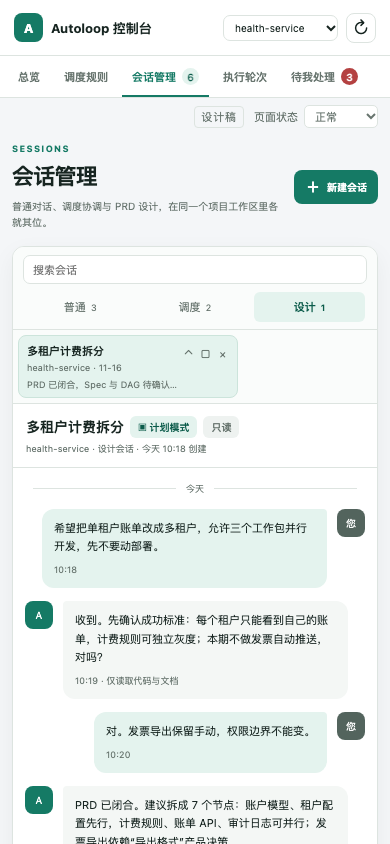
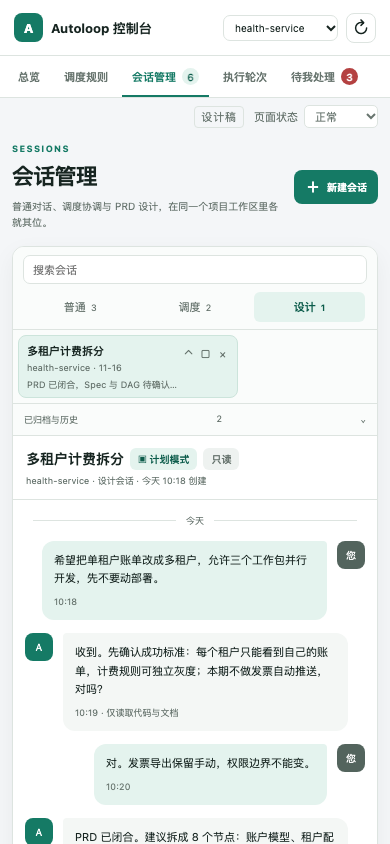
docs(design): R3 复审返工——节点数据源统一、逐节点分段环形图、归档可恢复
- P1: 总览/DAG 详情/授权页统一为 8 节点单一数据源（dagRunNodes），计数与 aria 由数据生成
- P1: 环形图逐节点独立分段（DAG 8 段、串行 11 段），相邻同色不合并，阻塞琥珀色保留
- P1: 归档真实加入“已归档与历史”列表，支持只读查看与恢复，计数联动；移动端不再隐藏归档入口
- P2: render.mjs 改为 createRequire(import.meta.url)，去除本机绝对路径
- P2: README 状态统一为已确认基线，断言规模如实更新
- P2: 断言 52→105，覆盖三类会话创建契约、Plan Mode、逐节点分段、归档恢复与 Codex App 布局一致性

验证：node render.mjs → 14 PNG、105 断言、0 浏览器错误；npm test 167/167 绿

Changed region(s): [[0.0615, 0.4929, 0.9538, 1.0], [0.0615, 0.9242, 0.1538, 1.0]]

diff --git a/docs/design/2026-11-16-parallel-dag/prototype.css b/docs/design/2026-11-16-parallel-dag/prototype.css
@@ -3,9 +3,9 @@
 @media(max-width:600px){.topbar{height:56px;padding:0 14px}.brand{font-size:13px;gap:8px}.brand-mark{width:29px;height:29px;border-radius:8px}.project-picker>span,.connection{display:none}.project-picker select{max-width:115px;font-size:10px;padding:5px 7px}.header-actions{gap:8px}.icon-button{width:30px;height:30px}.navigation{padding:0 8px}.nav-item{font-size:11px;padding:12px 10px 10px}.prototype-tools{padding:7px 12px 0}main{padding:15px 12px 36px}.page-heading{align-items:flex-start;gap:12px;margin-bottom:16px}.page-heading .button.primary{padding:8px 10px;font-size:10px;min-height:34px}h1{font-size:22px}.eyebrow{font-size:9px}.subtle{font-size:10px}.summary-grid{grid-template-columns:repeat(2,1fr);gap:9px}.metric{padding:12px 13px}.metric strong{font-size:23px}.metric small{font-size:9px}.dag-summary{grid-template-columns:1fr;padding:15px;gap:15px}.lane-meter{border-left:0;border-top:1px solid var(--line);padding:12px 0 0;display:grid;grid-template-columns:1fr auto;align-items:center}.lane-meter p{grid-column:1;margin:0}.lane-dots{grid-column:2;grid-row:1/3}.node-strip{padding:0 15px 14px}.node-chip{min-width:114px}.capacity-note{padding:9px 15px;font-size:9px}.legacy-row{grid-template-columns:1fr 70px 32px;gap:8px;padding:13px 15px}.panel-heading{padding:13px 15px}.title-with-badge{gap:6px}.compact-heading{flex-direction:column}.heading-actions{width:100%}.heading-actions .button{flex:1}.stepper li{font-size:9px;gap:4px}.stepper li:after{margin:0 5px}.stepper li:before{width:19px;height:19px;font-size:9px}.design-layout{gap:12px}.conversation-panel{min-height:500px}.messages{padding:14px 12px;gap:13px}.message{max-width:95%;font-size:11px}.composer-footer>span{max-width:210px}.design-sidebar,.dag-sidebar,.preflight-sidebar{display:flex}.run-metrics{grid-template-columns:repeat(3,1fr);gap:7px}.run-metrics>div{padding:10px}.run-metrics strong{font-size:18px}.run-metrics>div:nth-child(4),.run-metrics>div:nth-child(5){grid-column:auto}.wave{grid-template-columns:1fr;padding:13px 12px}.wave-label{display:flex;gap:8px;align-items:center}.wave-label small{margin-top:0}.wave-nodes{grid-template-columns:1fr 1fr}.dag-node{padding:8px}.preflight-row{padding:12px 13px;grid-template-columns:22px 1fr}.preflight-row>.status{grid-column:2;justify-self:start}.confirmation-summary{padding:14px;gap:14px}.permission-grid{grid-template-columns:1fr}.authorization-section{padding:14px}.confirm-card{position:static}.toast{left:12px;right:12px;bottom:12px;max-width:none}}
 /* R2：项目进度融合 + 会话管理 */
 .project-progress{padding:18px 20px;border-bottom:1px solid var(--line)}.project-progress:last-child{border-bottom:0}.project-heading-row{display:flex;align-items:flex-start;justify-content:space-between;gap:14px;margin-bottom:15px}.project-heading-row h3{font-size:14px}.project-heading-row p{color:var(--muted);font-size:10px;margin:4px 0 0}.dag-visual{display:grid;grid-template-columns:210px 1fr;gap:22px;align-items:center}.donut-wrap{display:flex;align-items:center;gap:16px}.dag-donut{width:116px;height:116px;border-radius:50%;display:grid;place-items:center;flex:none;background:conic-gradient(#157a65 0 14.285%,#157a65 14.285% 28.57%,#4f8fb9 28.57% 42.855%,#8ab2ce 42.855% 57.14%,#d59a37 57.14% 71.425%,#d8d2e7 71.425% 100%);transform:rotate(-90deg)}.dag-donut:before{content:"";position:absolute;width:82px;height:82px;border-radius:50%;background:#fff}.dag-donut>div{position:relative;text-align:center;transform:rotate(90deg)}.dag-donut strong{display:block;font-size:22px;letter-spacing:-.04em}.dag-donut span{display:block;color:var(--muted);font-size:9px;margin-top:1px}.donut-legend{display:flex;flex-direction:column;gap:6px}.donut-legend>span{font-size:10px;color:var(--muted)}.donut-legend i{display:inline-block;width:8px;height:8px;border-radius:2px;margin-right:6px}.donut-legend i.wave-1{background:#157a65}.donut-legend i.wave-2{background:#4f8fb9}.donut-legend i.wave-3{background:#d8d2e7}.donut-legend small{font-size:8px;color:var(--muted);margin-top:3px;white-space:nowrap}.progress-waves{display:flex;flex-direction:column;gap:10px}.progress-wave{display:grid;grid-template-columns:110px 1fr;gap:8px;align-items:start}.progress-wave-label span{display:block;font-size:10px;font-weight:650}.progress-wave-label small{display:block;color:var(--muted);font-size:9px;margin-top:3px}.progress-wave>div:last-child{display:flex;gap:7px;flex-wrap:wrap}.progress-node{border:1px solid var(--line);border-radius:7px;padding:7px 9px;background:#fff;text-align:left;font-size:10px;color:var(--ink);min-width:128px}.progress-node small{display:block;color:var(--muted);font-size:8px;margin-top:3px}.progress-node.w1{border-top:3px solid #157a65}.progress-node.w2{border-top:3px solid #4f8fb9}.progress-node.w3{border-top:3px solid #d8d2e7}.progress-node.done{background:#e4f3ee}.progress-node.active{background:#e3eef5}.progress-node.review{background:#f0f5f9}.progress-node.blocked{background:#fff3df;border-top-color:#d59a37}.progress-node.pending{background:#faf9fc;color:#7c768a}.serial-project{padding-top:14px;padding-bottom:14px}.serial-project .project-heading-row{margin-bottom:10px}.serial-project .legacy-progress{width:100%}
-.session-page-heading{margin-bottom:16px}.session-layout{display:grid;grid-template-columns:292px minmax(0,1fr);min-height:660px}.session-sidebar{border-right:1px solid var(--line);display:flex;flex-direction:column;min-width:0;background:#fafcfb}.session-search{padding:12px 12px 9px}.session-search input{width:100%;border:1px solid var(--line);border-radius:7px;background:#fff;padding:7px 9px;font-size:11px;color:var(--ink)}.session-kind-tabs{display:grid;grid-template-columns:repeat(3,1fr);gap:4px;padding:0 12px 10px;border-bottom:1px solid var(--line)}.session-kind-tabs button{border:0;border-radius:6px;background:transparent;color:var(--muted);padding:7px 4px;font-size:11px}.session-kind-tabs button.active{background:var(--accent-soft);color:var(--accent-dark);font-weight:650}.session-kind-tabs span{font-size:9px;margin-left:2px}.session-list{padding:6px;overflow:auto;flex:1}.session-item{position:relative;border:1px solid transparent;border-radius:8px;margin-bottom:3px;padding:7px 6px 6px 8px;display:flex;align-items:flex-start;gap:3px}.session-item[hidden]{display:none}.session-item:hover{background:#f0f4f2}.session-item.active{background:var(--accent-soft);border-color:#cce4db}.session-item-main{min-width:0;flex:1}.session-select{display:block;width:100%;text-align:left;border:0;background:transparent;padding:0;color:var(--ink);min-width:0}.session-select strong{display:block;font-size:11px;line-height:1.45;overflow:hidden;text-overflow:ellipsis;white-space:nowrap}.session-select>span{display:block;color:var(--muted);font-size:9px;margin-top:3px}.session-select small{display:block;color:var(--muted);font-size:9px;line-height:1.45;margin-top:5px}.session-item.collapsed .session-select small{display:none}.session-item-actions{display:flex;gap:0;opacity:0;transition:opacity .12s}.session-item:hover .session-item-actions,.session-item.active .session-item-actions{opacity:1}.session-item-actions button{border:0;background:transparent;color:var(--muted);width:17px;height:20px;padding:0;font-size:11px}.session-item-actions button:hover{color:var(--accent)}.archived-sessions{border-top:1px solid var(--line);padding:8px 10px}.archived-sessions>button{display:flex;width:100%;justify-content:space-between;border:0;background:transparent;color:var(--muted);font-size:10px;padding:4px}.archived-item{display:flex;justify-content:space-between;width:100%;border:0;background:transparent;padding:7px 4px;color:var(--muted);font-size:10px}.archived-item span{color:var(--accent)}.session-workspace{display:flex;flex-direction:column;min-width:0;background:#fff}.session-header{display:flex;justify-content:space-between;align-items:center;gap:12px;padding:14px 18px;border-bottom:1px solid var(--line)}.session-header h2{font-size:14px}.session-header p{color:var(--muted);font-size:9px;margin:4px 0 0}.session-header-actions{display:flex;gap:5px}.session-header-actions .icon-button{border:0;background:#f5f7f6}.session-transcript{flex:1;overflow:auto;min-height:360px}.session-date-divider{display:flex;align-items:center;gap:10px;padding:14px 20px 2px;color:var(--muted);font-size:9px}.session-date-divider:before,.session-date-divider:after{content:"";height:1px;background:var(--line);flex:1}.session-transcript .messages{padding-top:12px;padding-bottom:14px}.session-bottom{border-top:1px solid var(--line);padding:10px 16px 9px;background:#fff}.design-session-progress{display:flex;align-items:center;gap:7px;margin-bottom:8px}.design-session-progress>span{padding:3px 7px;border-radius:5px;background:var(--accent-soft);color:var(--accent-dark);font-size:9px}.design-session-progress .text-button{margin-left:auto;font-size:10px}.codex-composer{border:1px solid #ccd8d2;border-radius:11px;box-shadow:0 3px 12px rgba(22,42,34,.06);overflow:hidden}.codex-composer textarea{display:block;width:100%;height:58px;resize:none;border:0;padding:12px 13px;color:var(--ink);font-size:11px;outline:none}.codex-composer-footer{display:flex;justify-content:space-between;align-items:center;padding:6px 8px 7px;color:var(--muted);font-size:9px}.codex-composer-footer>div{display:flex;align-items:center;gap:6px}.composer-tool{border:0;background:transparent;color:var(--muted);font-size:17px;width:25px;height:25px}.composer-separator{color:#b8c2bd}.composer-send{border:0;border-radius:7px;background:var(--accent);color:#fff;width:29px;height:29px;font-size:15px}.session-footnote{text-align:center;color:var(--muted);font-size:8px;margin:7px 0 0}.new-session-dialog{border:1px solid var(--line);border-radius:14px;padding:0;width:min(590px,calc(100vw - 28px));box-shadow:0 24px 70px rgba(22,42,34,.2);color:var(--ink)}.new-session-dialog::backdrop,.delete-session-dialog::backdrop{background:rgba(17,33,27,.35);backdrop-filter:blur(2px)}.dialog-heading{display:flex;justify-content:space-between;align-items:flex-start;padding:20px 22px 13px;border-bottom:1px solid var(--line)}.dialog-heading h2{font-size:18px}.dialog-heading .subtle{font-size:10px;margin-top:6px}.form-field{display:flex;flex-direction:column;gap:6px;margin:14px 22px;color:var(--muted);font-size:10px}.form-field select,.form-field textarea{border:1px solid var(--line);border-radius:8px;padding:10px;color:var(--ink);background:#fff;font-size:12px}.form-field textarea{height:88px;resize:none}.session-classification{margin:14px 22px;padding:13px;background:#f5f8f6;border:1px solid var(--line);border-radius:9px}.classification-top{display:flex;justify-content:space-between;color:var(--muted);font-size:9px}.classification-result{display:flex;gap:10px;align-items:flex-start;margin:12px 0}.classification-result>span{display:grid;place-items:center;width:28px;height:28px;border-radius:8px;background:#fff;color:var(--accent);font-size:16px}.classification-result strong{font-size:12px}.classification-result p{color:var(--muted);font-size:10px;line-height:1.5;margin:3px 0 0}.classification-override{display:grid;grid-template-columns:repeat(4,1fr);gap:4px}.classification-override button{border:1px solid var(--line);background:#fff;border-radius:6px;padding:6px;color:var(--muted);font-size:10px}.classification-override button.active{background:var(--accent-soft);border-color:#afd4c6;color:var(--accent-dark);font-weight:650}.classification-contract{margin:0 22px 14px;padding:9px 11px;background:var(--accent-soft);border-radius:7px;color:var(--accent-dark);font-size:10px;line-height:1.55}.dialog-actions{display:flex;justify-content:flex-end;gap:8px;padding:13px 22px;border-top:1px solid var(--line)}.delete-session-dialog{border:1px solid var(--line);border-radius:12px;width:min(390px,calc(100vw - 28px));padding:20px;color:var(--ink)}.delete-session-dialog h2{font-size:17px}.delete-session-dialog p{color:var(--muted);font-size:11px;line-height:1.6}.delete-session-dialog .dialog-actions{padding:12px 0 0;border:0}
+.session-page-heading{margin-bottom:16px}.session-layout{display:grid;grid-template-columns:292px minmax(0,1fr);min-height:660px}.session-sidebar{border-right:1px solid var(--line);display:flex;flex-direction:column;min-width:0;background:#fafcfb}.session-search{padding:12px 12px 9px}.session-search input{width:100%;border:1px solid var(--line);border-radius:7px;background:#fff;padding:7px 9px;font-size:11px;color:var(--ink)}.session-kind-tabs{display:grid;grid-template-columns:repeat(3,1fr);gap:4px;padding:0 12px 10px;border-bottom:1px solid var(--line)}.session-kind-tabs button{border:0;border-radius:6px;background:transparent;color:var(--muted);padding:7px 4px;font-size:11px}.session-kind-tabs button.active{background:var(--accent-soft);color:var(--accent-dark);font-weight:650}.session-kind-tabs span{font-size:9px;margin-left:2px}.session-list{padding:6px;overflow:auto;flex:1}.session-item{position:relative;border:1px solid transparent;border-radius:8px;margin-bottom:3px;padding:7px 6px 6px 8px;display:flex;align-items:flex-start;gap:3px}.session-item[hidden]{display:none}.session-item:hover{background:#f0f4f2}.session-item.active{background:var(--accent-soft);border-color:#cce4db}.session-item-main{min-width:0;flex:1}.session-select{display:block;width:100%;text-align:left;border:0;background:transparent;padding:0;color:var(--ink);min-width:0}.session-select strong{display:block;font-size:11px;line-height:1.45;overflow:hidden;text-overflow:ellipsis;white-space:nowrap}.session-select>span{display:block;color:var(--muted);font-size:9px;margin-top:3px}.session-select small{display:block;color:var(--muted);font-size:9px;line-height:1.45;margin-top:5px}.session-item.collapsed .session-select small{display:none}.session-item-actions{display:flex;gap:0;opacity:0;transition:opacity .12s}.session-item:hover .session-item-actions,.session-item.active .session-item-actions{opacity:1}.session-item-actions button{border:0;background:transparent;color:var(--muted);width:17px;height:20px;padding:0;font-size:11px}.session-item-actions button:hover{color:var(--accent)}.archived-sessions{border-top:1px solid var(--line);padding:8px 10px}.archived-sessions>button{display:flex;width:100%;justify-content:space-between;border:0;background:transparent;color:var(--muted);font-size:10px;padding:4px}.archived-entry{display:flex;justify-content:space-between;align-items:center;gap:8px;width:100%;border:0;background:transparent;padding:7px 4px;color:var(--muted);font-size:10px}.archived-entry-title{overflow:hidden;text-overflow:ellipsis;white-space:nowrap}.archived-entry-actions{display:flex;gap:4px;flex:none}.archived-entry-actions button{border:1px solid var(--line);border-radius:5px;background:#fff;padding:2px 7px;font-size:9px;color:var(--accent-dark)}.archived-entry-actions button:hover{border-color:var(--accent)}.archived-item span{color:var(--accent)}.session-workspace{display:flex;flex-direction:column;min-width:0;background:#fff}.session-header{display:flex;justify-content:space-between;align-items:center;gap:12px;padding:14px 18px;border-bottom:1px solid var(--line)}.session-header h2{font-size:14px}.session-header p{color:var(--muted);font-size:9px;margin:4px 0 0}.session-header-actions{display:flex;gap:5px}.session-header-actions .icon-button{border:0;background:#f5f7f6}.session-transcript{flex:1;overflow:auto;min-height:360px}.session-date-divider{display:flex;align-items:center;gap:10px;padding:14px 20px 2px;color:var(--muted);font-size:9px}.session-date-divider:before,.session-date-divider:after{content:"";height:1px;background:var(--line);flex:1}.session-transcript .messages{padding-top:12px;padding-bottom:14px}.session-bottom{border-top:1px solid var(--line);padding:10px 16px 9px;background:#fff}.design-session-progress{display:flex;align-items:center;gap:7px;margin-bottom:8px}.design-session-progress>span{padding:3px 7px;border-radius:5px;background:var(--accent-soft);color:var(--accent-dark);font-size:9px}.design-session-progress .text-button{margin-left:auto;font-size:10px}.codex-composer{border:1px solid #ccd8d2;border-radius:11px;box-shadow:0 3px 12px rgba(22,42,34,.06);overflow:hidden}.codex-composer textarea{display:block;width:100%;height:58px;resize:none;border:0;padding:12px 13px;color:var(--ink);font-size:11px;outline:none}.codex-composer-footer{display:flex;justify-content:space-between;align-items:center;padding:6px 8px 7px;color:var(--muted);font-size:9px}.codex-composer-footer>div{display:flex;align-items:center;gap:6px}.composer-tool{border:0;background:transparent;color:var(--muted);font-size:17px;width:25px;height:25px}.composer-separator{color:#b8c2bd}.composer-send{border:0;border-radius:7px;background:var(--accent);color:#fff;width:29px;height:29px;font-size:15px}.session-footnote{text-align:center;color:var(--muted);font-size:8px;margin:7px 0 0}.new-session-dialog{border:1px solid var(--line);border-radius:14px;padding:0;width:min(590px,calc(100vw - 28px));box-shadow:0 24px 70px rgba(22,42,34,.2);color:var(--ink)}.new-session-dialog::backdrop,.delete-session-dialog::backdrop{background:rgba(17,33,27,.35);backdrop-filter:blur(2px)}.dialog-heading{display:flex;justify-content:space-between;align-items:flex-start;padding:20px 22px 13px;border-bottom:1px solid var(--line)}.dialog-heading h2{font-size:18px}.dialog-heading .subtle{font-size:10px;margin-top:6px}.form-field{display:flex;flex-direction:column;gap:6px;margin:14px 22px;color:var(--muted);font-size:10px}.form-field select,.form-field textarea{border:1px solid var(--line);border-radius:8px;padding:10px;color:var(--ink);background:#fff;font-size:12px}.form-field textarea{height:88px;resize:none}.session-classification{margin:14px 22px;padding:13px;background:#f5f8f6;border:1px solid var(--line);border-radius:9px}.classification-top{display:flex;justify-content:space-between;color:var(--muted);font-size:9px}.classification-result{display:flex;gap:10px;align-items:flex-start;margin:12px 0}.classification-result>span{display:grid;place-items:center;width:28px;height:28px;border-radius:8px;background:#fff;color:var(--accent);font-size:16px}.classification-result strong{font-size:12px}.classification-result p{color:var(--muted);font-size:10px;line-height:1.5;margin:3px 0 0}.classification-override{display:grid;grid-template-columns:repeat(4,1fr);gap:4px}.classification-override button{border:1px solid var(--line);background:#fff;border-radius:6px;padding:6px;color:var(--muted);font-size:10px}.classification-override button.active{background:var(--accent-soft);border-color:#afd4c6;color:var(--accent-dark);font-weight:650}.classification-contract{margin:0 22px 14px;padding:9px 11px;background:var(--accent-soft);border-radius:7px;color:var(--accent-dark);font-size:10px;line-height:1.55}.dialog-actions{display:flex;justify-content:flex-end;gap:8px;padding:13px 22px;border-top:1px solid var(--line)}.delete-session-dialog{border:1px solid var(--line);border-radius:12px;width:min(390px,calc(100vw - 28px));padding:20px;color:var(--ink)}.delete-session-dialog h2{font-size:17px}.delete-session-dialog p{color:var(--muted);font-size:11px;line-height:1.6}.delete-session-dialog .dialog-actions{padding:12px 0 0;border:0}
 @media(max-width:900px){.dag-visual{grid-template-columns:180px 1fr}.session-layout{grid-template-columns:240px minmax(0,1fr)}}
-@media(max-width:600px){.project-progress{padding:14px 13px}.project-heading-row{gap:8px}.dag-visual{grid-template-columns:1fr}.donut-wrap{justify-content:center}.donut-legend{display:grid;grid-template-columns:repeat(3,1fr);gap:5px}.donut-legend small{grid-column:1/-1;text-align:center}.progress-wave{grid-template-columns:1fr}.progress-wave-label{display:flex;gap:7px;align-items:center}.progress-wave-label small{margin-top:0}.progress-node{min-width:110px;flex:1}.session-page-heading{flex-direction:row;align-items:center}.session-layout{grid-template-columns:1fr;min-height:600px}.session-sidebar{border-right:0;border-bottom:1px solid var(--line);max-height:265px}.session-search{padding:8px 10px}.session-kind-tabs{padding-bottom:7px}.session-list{display:flex;gap:5px;padding:5px;overflow-x:auto}.session-item{min-width:205px;margin-bottom:0}.session-item-actions{opacity:1}.archived-sessions{display:none}.session-header{padding:12px 13px}.session-header-actions{display:none}.session-transcript{min-height:350px}.session-bottom{padding:9px 10px}.session-footnote{font-size:7px}.new-session-dialog{max-height:calc(100vh - 30px);overflow:auto}.dialog-heading{padding:16px}.form-field{margin:12px 16px}.session-classification{margin:12px 16px}.classification-contract{margin:0 16px 12px}.dialog-actions{padding:12px 16px}}
+@media(max-width:600px){.project-progress{padding:14px 13px}.project-heading-row{gap:8px}.dag-visual{grid-template-columns:1fr}.donut-wrap{justify-content:center}.donut-legend{display:grid;grid-template-columns:repeat(3,1fr);gap:5px}.donut-legend small{grid-column:1/-1;text-align:center}.progress-wave{grid-template-columns:1fr}.progress-wave-label{display:flex;gap:7px;align-items:center}.progress-wave-label small{margin-top:0}.progress-node{min-width:110px;flex:1}.session-page-heading{flex-direction:row;align-items:center}.session-layout{grid-template-columns:1fr;min-height:600px}.session-sidebar{border-right:0;border-bottom:1px solid var(--line);max-height:265px}.session-search{padding:8px 10px}.session-kind-tabs{padding-bottom:7px}.session-list{display:flex;gap:5px;padding:5px;overflow-x:auto}.session-item{min-width:205px;margin-bottom:0}.session-item-actions{opacity:1}.archived-sessions{display:block;border-top:1px solid var(--line);padding:6px 8px}.archived-sessions>button{font-size:9px;padding:3px}.archived-entry{padding:5px 2px;font-size:9px}.session-header{padding:12px 13px}.session-header-actions{display:none}.session-transcript{min-height:350px}.session-bottom{padding:9px 10px}.session-footnote{font-size:7px}.new-session-dialog{max-height:calc(100vh - 30px);overflow:auto}.dialog-heading{padding:16px}.form-field{margin:12px 16px}.session-classification{margin:12px 16px}.classification-contract{margin:0 16px 12px}.dialog-actions{padding:12px 16px}}
 [hidden]{display:none!important}
 .history-note{color:var(--muted);font-size:8px;margin:4px 4px 7px}.history-runs{margin-top:16px}.history-runs>button{display:flex;align-items:center;gap:10px;width:100%;border:0;background:#fff;padding:13px 17px;color:var(--ink);text-align:left}.history-runs>button>span:first-child{font-size:12px;font-weight:650}.history-runs>button small{color:var(--muted);font-size:9px;flex:1}.history-runs>button>span:last-child{color:var(--muted)}#run-history-list{border-top:1px solid var(--line)}#run-history-list>button{display:grid;grid-template-columns:1fr auto auto;gap:14px;width:100%;border:0;border-bottom:1px solid var(--line);background:#fff;padding:11px 17px;text-align:left;font-size:10px;color:var(--ink)}#run-history-list>button:last-child{border-bottom:0}#run-history-list>button span{color:var(--muted)}
 .serial-donut{background:conic-gradient(#157a65 0 45.45%,#79b5a4 45.45% 54.54%,#e2ebe7 54.54% 100%)}.progress-node.w1.current{background:#d9eee6}.more-nodes{align-self:center;font-size:9px}

diff --git a/docs/design/2026-11-16-parallel-dag/prototype.html b/docs/design/2026-11-16-parallel-dag/prototype.html
@@ -46,11 +46,11 @@
           <span class="subtle">2 个项目</span>
         </div>
         <article class="project-progress dag-project">
-          <div class="project-heading-row"><div><div class="title-with-badge"><h3>health-service</h3><span class="status good">并行 DAG</span></div><p>多租户计费拆分 · 7 个节点 · 第 2/3 波</p></div><button class="text-button" data-screen="dag">查看运行详情 →</button></div>
+          <div class="project-heading-row"><div><div class="title-with-badge"><h3>health-service</h3><span class="status good">并行 DAG</span></div><p data-dag-node-summary>多租户计费拆分 · 8 个节点 · 第 2/3 波</p></div><button class="text-button" data-screen="dag">查看运行详情 →</button></div>
           <div class="project-usage"><div><span>今日费用</span><strong>$2.84</strong></div><div><span>累计费用</span><strong>$18.62</strong></div><div><span>今日 Token</span><strong>182K</strong><small>入 131K / 出 51K</small></div><div><span>累计 Token</span><strong>1.24M</strong><small>入 886K / 出 354K</small></div></div>
           <div class="dag-visual">
             <div class="donut-wrap">
-              <div class="dag-donut" role="img" aria-label="DAG 总进度 29%，7 个节点"><div><strong>29%</strong><span>总进度</span></div></div>
+              <div class="dag-donut" role="img" aria-label="DAG 总进度 25%，8 个节点，逐节点分段"><div><strong>25%</strong><span>总进度</span></div></div>
               <div class="donut-legend"><span><i class="wave-1"></i>第 1 波</span><span><i class="wave-2"></i>第 2 波</span><span><i class="wave-3"></i>第 3 波</span><small>颜色 = 波次 · 深浅 = 状态</small></div>
             </div>
             <div class="progress-waves">
@@ -116,8 +116,16 @@
               <div class="session-item-main"><button class="session-select" data-session="design-tenant"><strong>多租户计费拆分</strong><span>health-service · 11-16</span><small>PRD 已闭合，Spec 与 DAG 待确认…</small></button></div>
               <div class="session-item-actions"><button title="折叠会话" data-action="collapse">⌃</button><button title="归档会话" data-action="archive">□</button><button title="删除会话" data-action="delete">×</button></div>
             </article>
+          <article class="session-item" data-kind="normal" data-session="archived-settle" data-archived="true" hidden>
+              <div class="session-item-main"><button class="session-select" data-session="archived-settle"><strong>旧版结算讨论</strong><span>health-service · 11-08</span><small>旧流程保留到迁移完成，期间双写…</small></button></div>
+              <div class="session-item-actions"><button title="折叠会话" data-action="collapse">⌃</button><button title="归档会话" data-action="archive">□</button><button title="删除会话" data-action="delete">×</button></div>
+            </article>
+            <article class="session-item" data-kind="normal" data-session="archived-permission" data-archived="true" hidden>
+              <div class="session-item-main"><button class="session-select" data-session="archived-permission"><strong>权限方案评估</strong><span>health-service · 11-05</span><small>角色权限拆分需回归越权用例…</small></button></div>
+              <div class="session-item-actions"><button title="折叠会话" data-action="collapse">⌃</button><button title="归档会话" data-action="archive">□</button><button title="删除会话" data-action="delete">×</button></div>
+            </article>
           </div>
-          <div class="archived-sessions"><button data-action="toggle-archived">已归档与历史 <span id="archived-count">4</span><span class="archive-chevron">⌄</span></button><div id="archived-list" hidden><p class="history-note">默认折叠 · 可查看 · 不自动清理</p><button class="archived-item" data-action="view-history">旧版结算讨论 <span>查看</span></button><button class="archived-item" data-action="view-history">权限方案评估 <span>查看</span></button></div></div>
+          <div class="archived-sessions"><button data-action="toggle-archived">已归档与历史 <span id="archived-count">2</span><span class="archive-chevron">⌄</span></button><div id="archived-list" hidden><p class="history-note">默认折叠 · 可查看 · 可恢复 · 不自动清理</p><div class="archived-entry" data-archived-session="archived-settle"><span class="archived-entry-title">旧版结算讨论 · health-service</span><span class="archived-entry-actions"><button data-action="view-archived">查看</button><button data-action="restore">恢复</button></span></div><div class="archived-entry" data-archived-session="archived-permission"><span class="archived-entry-title">权限方案评估 · health-service</span><span class="archived-entry-actions"><button data-action="view-archived">查看</button><button data-action="restore">恢复</button></span></div></div></div>
         </aside>
         <section class="session-workspace">
           <header class="session-header"><div><div class="title-with-badge"><h2 id="session-title">多租户计费拆分</h2><span id="session-mode" class="mode-badge">▣ 计划模式</span><span id="session-access" class="mode-badge muted-badge">只读</span></div><p id="session-project">health-service · 设计会话 · 今天 10:18 创建</p></div><div class="session-header-actions"><button class="icon-button" title="归档" data-action="archive-current">□</button><button class="icon-button" title="更多" data-action="session-more">···</button></div></header>
@@ -184,7 +192,7 @@
           <div class="confirmation-summary"><div><span>项目</span><strong>health-service</strong></div><div><span>节点</span><strong>6 业务 + 1 整合审查</strong></div><div><span>最大并行</span><strong>5 路</strong></div><div><span>合并策略</span><strong>独立审阅后 squash</strong></div></div>
           <div class="authorization-section"><h2>本次允许</h2><div class="permission-grid"><label><input type="checkbox" checked disabled><span><strong>独立 worktree 与离线测试</strong><small>5 个固定槽位，互不写入</small></span></label><label><input type="checkbox" checked disabled><span><strong>推送分支并创建 PR</strong><small>仅推送到 halfmoon82/health-service</small></span></label><label><input type="checkbox" checked disabled><span><strong>独立审阅与 P0–P2 返工</strong><small>三次未收敛先换打法，再决定是否升级</small></span></label><label><input type="checkbox" checked disabled><span><strong>审阅通过后 squash 合并</strong><small>远端 head 必须等于已审 commit</small></span></label><label><input type="checkbox" checked disabled><span><strong>替代旧 attempt 的 PR</strong><small>仅关闭本 DAG 登记的 PR并附说明</small></span></label></div></div>
           <div class="authorization-section excluded"><h2>始终不包含</h2><div class="excluded-tags"><span>部署</span><span>发布</span><span>生产数据写入</span><span>新建或读取其他凭据</span><span>对外通信</span><span>修改存量串行链</span></div></div>
-          <div class="authorization-section"><h2>PRD / Spec / DAG 摘要</h2><div class="digest-box"><p>多租户账单隔离；6 个业务节点分 3 波执行；发票导出等待“CSV 或 PDF”产品决策，其他节点不受影响。</p><div><span>product-spec</span><code>4b81…a02e</code><span>plan + nodes</span><code>7f3a…9c21</code></div></div></div>
+          <div class="authorization-section"><h2>PRD / Spec / DAG 摘要</h2><div class="digest-box"><p>多租户账单隔离；7 个业务节点分 3 波执行，外加 1 个整合审查节点；发票导出等待“CSV 或 PDF”产品决策，其他节点不受影响。</p><div><span>product-spec</span><code>4b81…a02e</code><span>plan + nodes</span><code>7f3a…9c21</code></div></div></div>
         </section>
         <aside class="authorize-sidebar">
           <section class="panel confirm-card"><div class="panel-heading"><h3>确认前请阅读</h3></div><p>确认后，ready 节点会立即进入 Hub 事件链。每个节点仍需独立审阅，合并不代表部署。</p><label class="confirm-check"><input id="authorize-check" type="checkbox"><span>我已阅读 PRD、Spec、DAG 和上述执行范围。</span></label><button id="authorize-button" class="button primary full" data-action="authorize" disabled>确认并进入事件链</button><button class="button secondary full" data-screen="design">返回设计会话</button><small class="confirm-footnote">确认动作与计划摘要一起写入 authorizationSnapshot。</small></section>

diff --git a/docs/design/2026-11-16-parallel-dag/README.md b/docs/design/2026-11-16-parallel-dag/README.md
@@ -1,6 +1,6 @@
 # Autoloop 并行 DAG 控制台设计稿 R3（2026-11-16）
 
-状态：**本地高保真视觉稿完成，等待产品经理确认；尚未写入生产 UI。**
+状态：**本地高保真视觉稿已完成，2026-11-16 经产品经理确认作为实现基线；尚未写入生产 UI，任何视觉或交互改动需重新渲染并再次确认。**
 
 ## 目标与用户路径
 
@@ -98,8 +98,8 @@
 
 运行：`node docs/design/2026-11-16-parallel-dag/render.mjs`
 
-R3 结果：14 张精确视口 PNG，52 项断言通过，浏览器脚本错误 0。覆盖七页两尺寸、页面级横向溢出、三类会话语义分类与手动覆盖、普通会话无附加提示词、原调度会话保留、折叠/删除确认、授权勾选、节点选择、异常状态、预检修复说明和总览入口。使用临时浏览器 profile，未连接真实控制台、Hub 或模型。
+R3 结果：14 张精确视口 PNG，105 项断言通过，浏览器脚本错误 0。覆盖七页两尺寸、页面级横向溢出、三类会话创建契约（设计 Plan Mode + 只读、普通无附加提示词、调度协议）、语义分类与手动覆盖、原调度会话保留、逐节点分段环形图（DAG 8 段、串行 11 段，段数与节点计数同数据源）、总览与 DAG 详情节点数一致、归档加入列表/只读查看/恢复闭环与计数、移动端归档入口、折叠/删除确认、授权勾选、节点选择、异常状态、预检修复说明、总览入口和 Codex App 会话区布局一致性。使用临时浏览器 profile，未连接真实控制台、Hub 或模型。
 
-## 待确认
+## 基线确认
 
 **2026-11-16 产品经理已确认本版为实现基线。** 右侧会话区沿用当前 Codex App 会话界面，左侧管理采用本设计。任何后续视觉或交互改动都需要重新渲染并再次确认。
